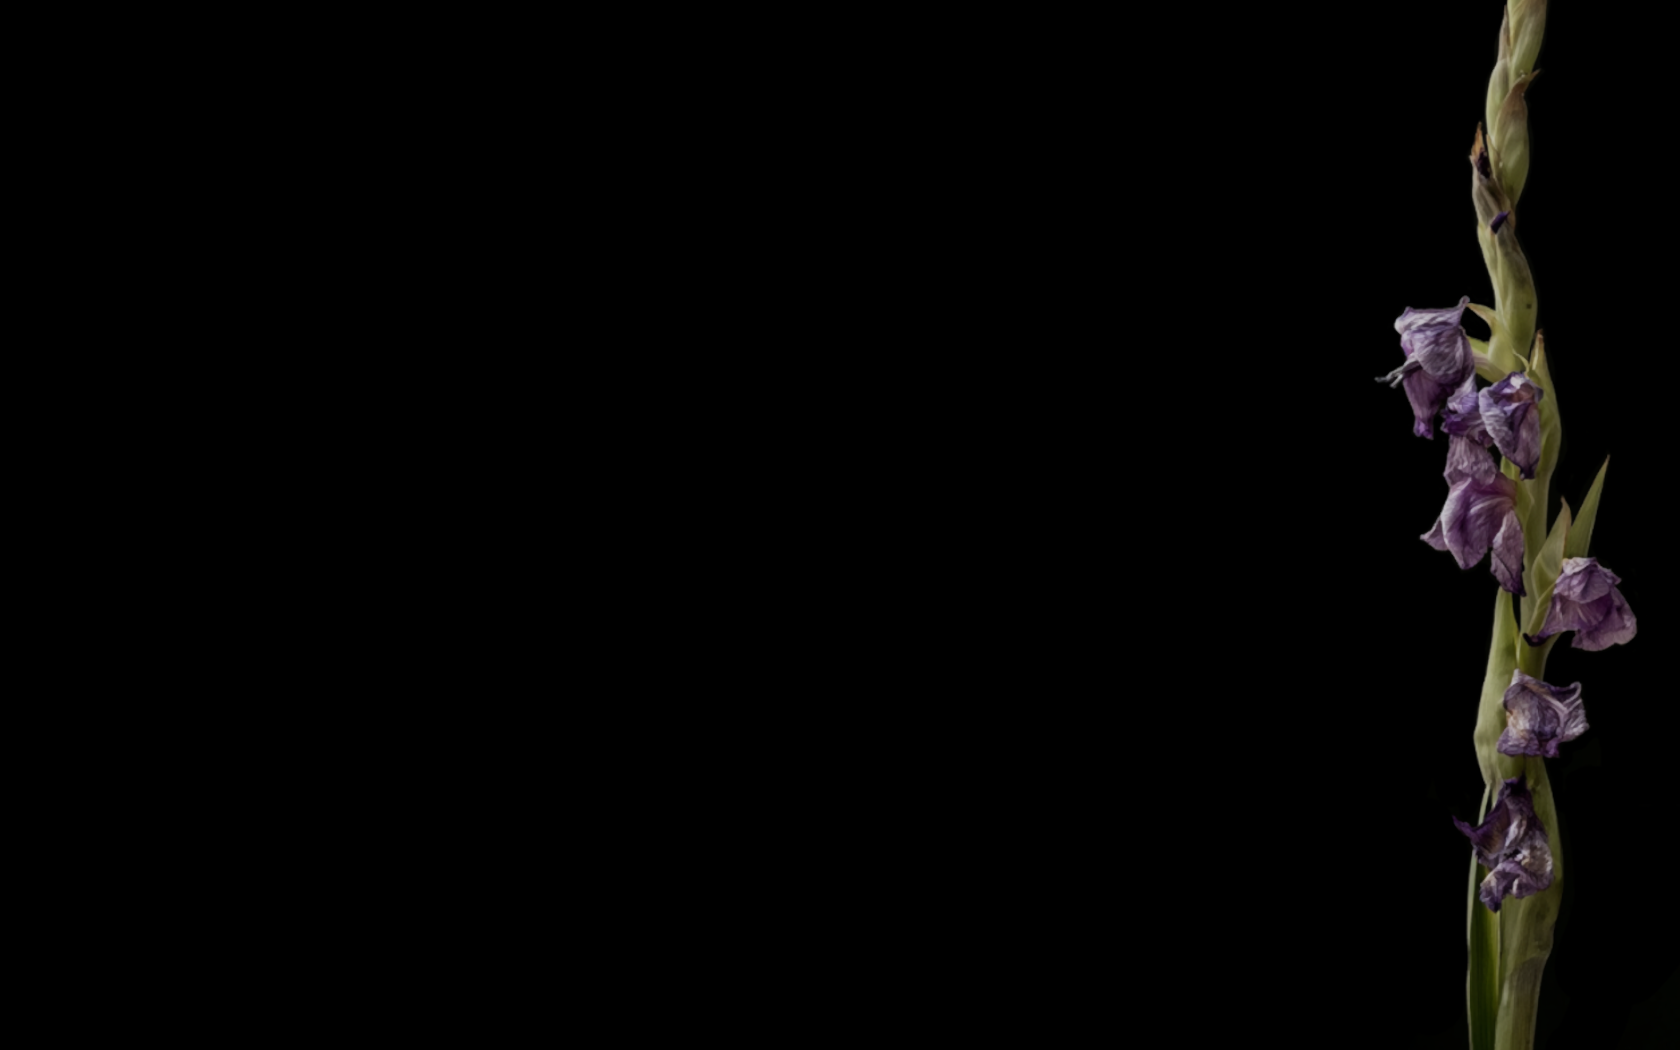
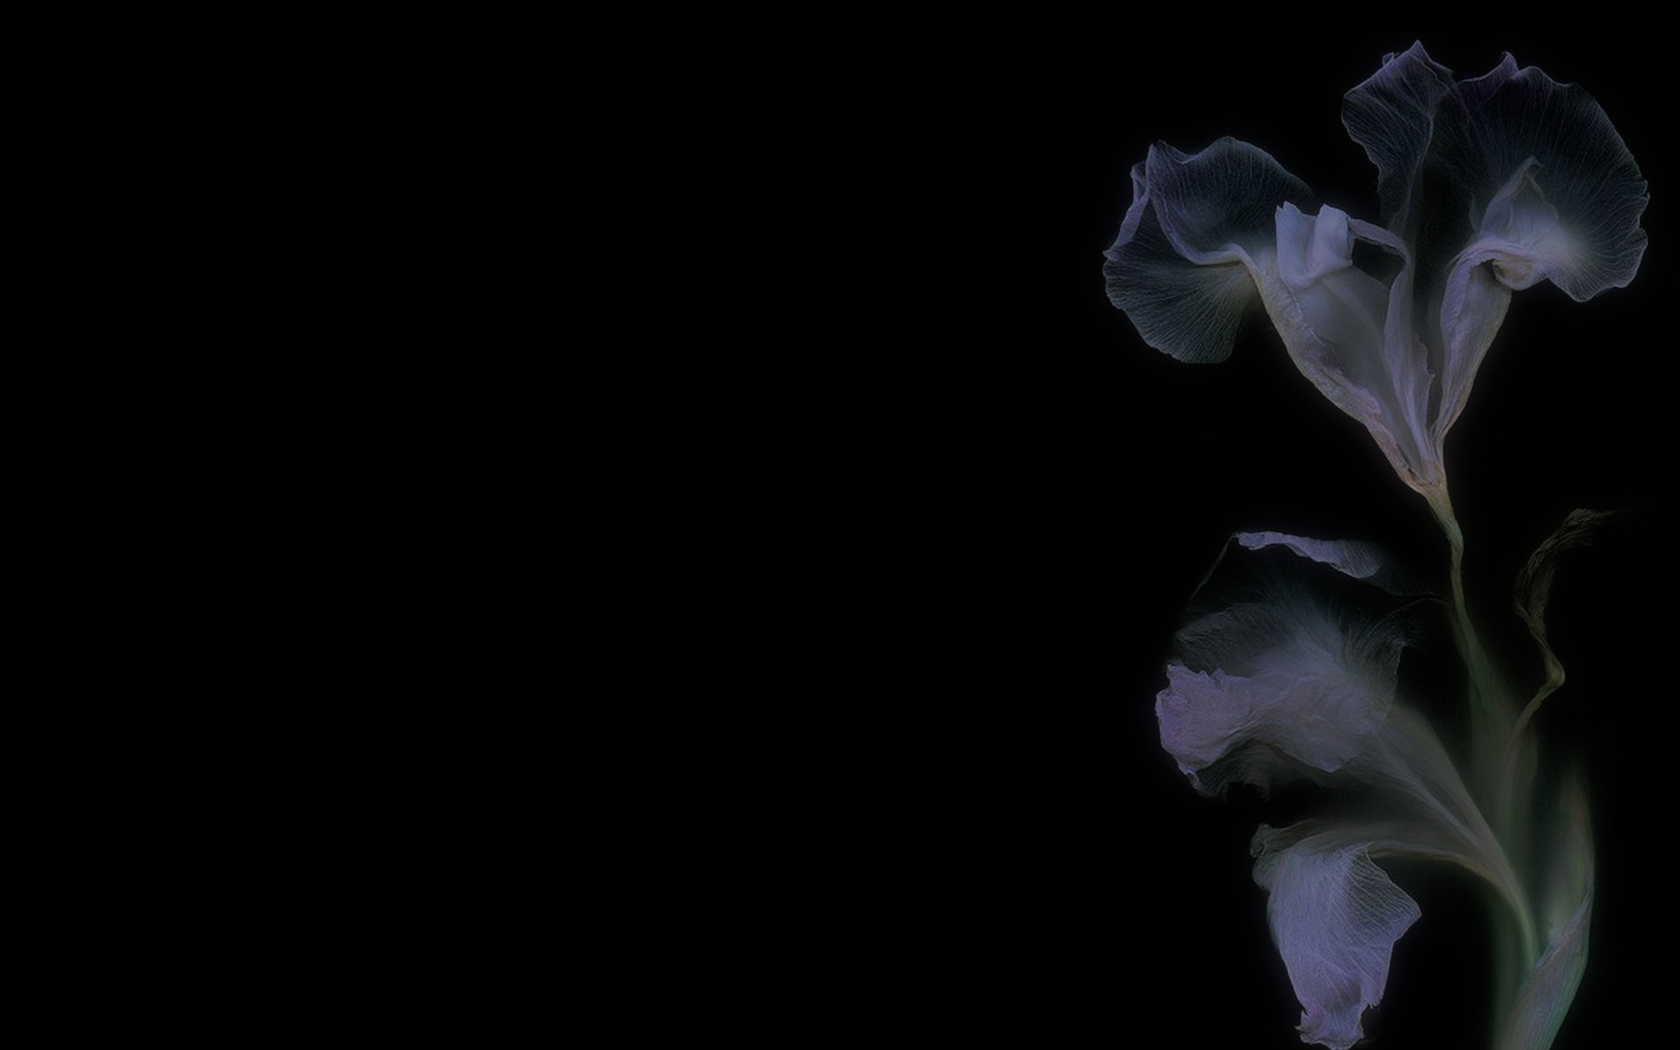
flicker effect on save

Changed region(s): [[0.65, 0.0, 0.9905, 1.0]]

diff --git a/index.html b/index.html
@@ -32,7 +32,7 @@
           placeholder="What did you encounter last night?"
         ></textarea>
         <div class="add-note-buttons">
-          <button id="save-button" onclick="saveNote()">
+          <button class="save-button" id="save-button" onclick="saveNote()">
             <svg
               xmlns="http://www.w3.org/2000/svg"
               fill="none"

diff --git a/style.css b/style.css
@@ -32,6 +32,13 @@ body {
   padding: var(--padding) var(--padding);
 }
 
+body:has(.save-button:hover) {
+  background-image: url("hero-dream-2.png");
+  opacity: 0;
+  transition: opacity 0.8s ease;
+  pointer-events: none;
+}
+
 .sidebar {
   width: 20vw;
   padding-right: var(--padding);
